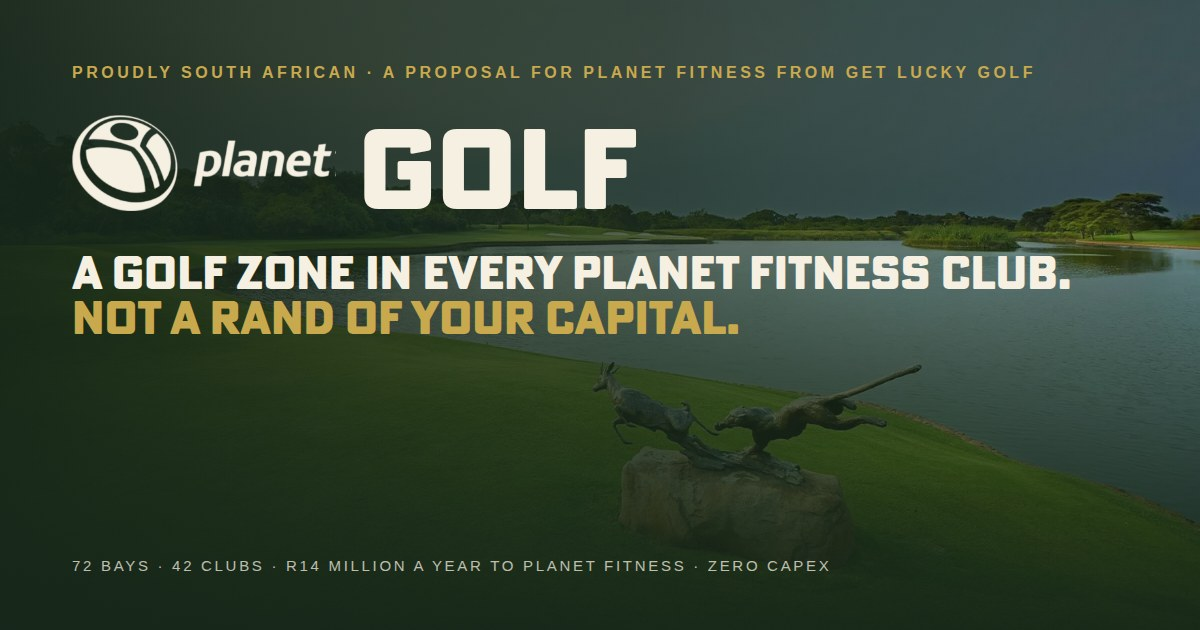
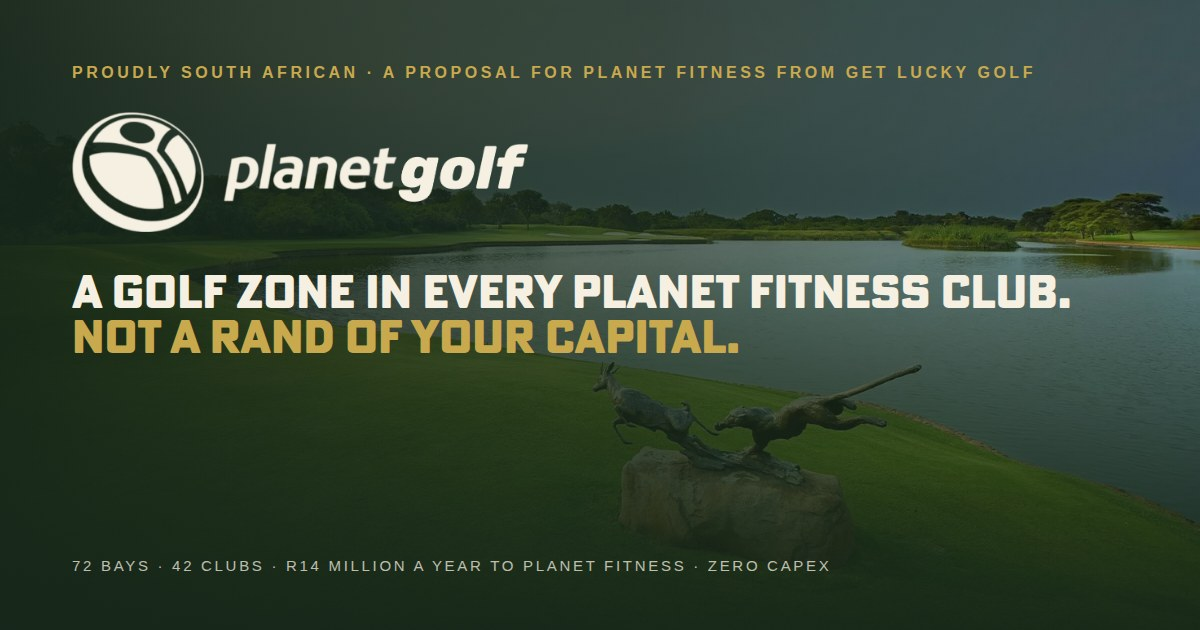
Planet Fitness pitch: planetgolf mark set in one style, more air in the hero
Claude-Session: https://claude.ai/code/session_0119fEhAYBynQZ4oRgrL2Acd

Changed region(s): [[0.0617, 0.181, 0.8942, 0.573]]

diff --git a/planetfitness/index.html b/planetfitness/index.html
@@ -25,7 +25,7 @@
 <link rel="icon" type="image/webp" href="/logos/favicon.webp">
 <link rel="preconnect" href="https://fonts.googleapis.com">
 <link rel="preconnect" href="https://fonts.gstatic.com" crossorigin>
-<link rel="preload" href="/logos/planet-cream.webp" as="image" fetchpriority="high">
+<link rel="preload" href="/logos/planetgolf-cream.webp" as="image" fetchpriority="high">
 <link rel="preload" href="/fonts/PosterGothicRoundATF-Heavy.woff2" as="font" type="font/woff2" crossorigin>
 <link rel="preload" href="/images/course-st-andrews-2000.webp" as="image" fetchpriority="high">
 <link href="https://fonts.googleapis.com/css2?family=Inter:wght@400;500;600;700&display=swap" rel="stylesheet">
@@ -91,24 +91,24 @@
   .nav .cta { font-size: .72rem; padding: .7rem 1.2rem; white-space: nowrap; }
 
   /* hero */
-  .hero { min-height: min(88vh, 900px); display: flex; align-items: flex-end; text-align: center; padding-block: 120px 64px; }
+  .hero { min-height: min(94vh, 980px); display: flex; align-items: flex-end; text-align: center; padding-block: 150px 96px; }
   @media (max-width: 640px) { .hero { padding-top: 230px; } }
   .hero .bg img { object-position: 50% 55%; }
   .hero .tint.a { background: linear-gradient(90deg, rgba(22,38,26,.94), rgba(22,38,26,.62) 55%, rgba(22,38,26,.22)); }
   .hero .tint.b { background: linear-gradient(180deg, rgba(22,38,26,.28), transparent 35%, rgba(22,38,26,.96)); }
   .hero .wrap { max-width: 58rem; }
   
-  .hero .lede { margin: 1.4rem auto 0; font-size: 1.12rem; }
+  .hero .lede { margin: 2rem auto 0; font-size: 1.12rem; }
   @media (min-width: 640px) { .hero .lede { font-size: 1.2rem; } }
   .hero .btns { justify-content: center; }
-  .hero .tag { margin-top: 2rem; font-size: .7rem; letter-spacing: .2em; text-transform: uppercase; color: rgba(245,240,225,.68); }
+  .hero .tag { margin-top: 2.8rem; font-size: .7rem; letter-spacing: .2em; text-transform: uppercase; color: rgba(245,240,225,.68); }
 
 
-  /* Planet Golf lockup: PLANET beside GOLF */
-  .lockup { display: grid; grid-template-columns: auto auto; justify-content: center; align-items: center; column-gap: .1em; row-gap: 0; font-size: clamp(3rem, 8.6vw, 6.2rem); margin: .9rem 0 .4rem; }
-  .lockup img { grid-row: 1; grid-column: 1; height: .86em; width: auto; align-self: center; margin-right: .22em; margin-top: .04em; filter: drop-shadow(0 4px 14px rgba(0,0,0,.35)); }
+  /* Planet Golf lockup: the Planet Fitness mark, cropped to planet, with golf set beside it in the same style */
+  .lockup { display: flex; justify-content: center; align-items: center; font-size: clamp(3rem, 8.6vw, 6.2rem); margin: 1rem 0 .8rem; }
+  .lockup img { height: 1.3em; width: auto; max-width: 100%; filter: drop-shadow(0 4px 14px rgba(0,0,0,.35)); }
   .lockup .golf { grid-column: 2; grid-row: 1; align-self: center; font-family: var(--display); font-weight: 800; text-transform: uppercase; color: var(--cream); line-height: .82; letter-spacing: .01em; text-shadow: 0 4px 18px rgba(0,0,0,.35); }
-  .hero .eyebrow { margin-bottom: 1.4rem; }
+  .hero .eyebrow { margin-bottom: 2.2rem; }
   .hero h1 { font-size: clamp(1.6rem, 4.6vw, 3rem); }
   .hero h1 .l1 { display: inline-block; text-align: left; }
   .hero h1 .l2, .hero h1 .l3 { display: block; }
@@ -365,8 +365,7 @@
   <div class="wrap rel">
     <p class="eyebrow">A proposal for Planet Fitness · from Get Lucky Golf</p>
     <div class="lockup" role="img" aria-label="Planet Golf">
-      <img src="/logos/planet-cream.webp" alt="" width="1617" height="588" fetchpriority="high" decoding="sync">
-      <span class="golf">Golf</span>
+      <img src="/logos/planetgolf-cream.webp" alt="" width="2280" height="588" fetchpriority="high" decoding="sync">
     </div>
     <h1><span class="l1">A golf zone in</span><span class="l2">every Planet Fitness club.</span><span class="l3">Not a rand of your capital.</span></h1>
     <p class="lede">72 Golfzon™ bays in 42 Planet Fitness clubs, booked like padel. Get Lucky Golf buys it. RMB or the bank you prefer finances it. We run it. Planet Fitness gives the room and the members, and takes 20% of every rand.</p>
@@ -576,8 +575,7 @@
         </ul>
       </div>
         <div class="lockup small" role="img" aria-label="Planet Golf">
-          <img src="/logos/planet-cream.webp" alt="" width="1617" height="588" loading="lazy" decoding="async">
-          <span class="golf">Golf</span>
+          <img src="/logos/planetgolf-cream.webp" alt="" width="2280" height="588" loading="lazy" decoding="async">
         </div>
       </div>
     </div>
